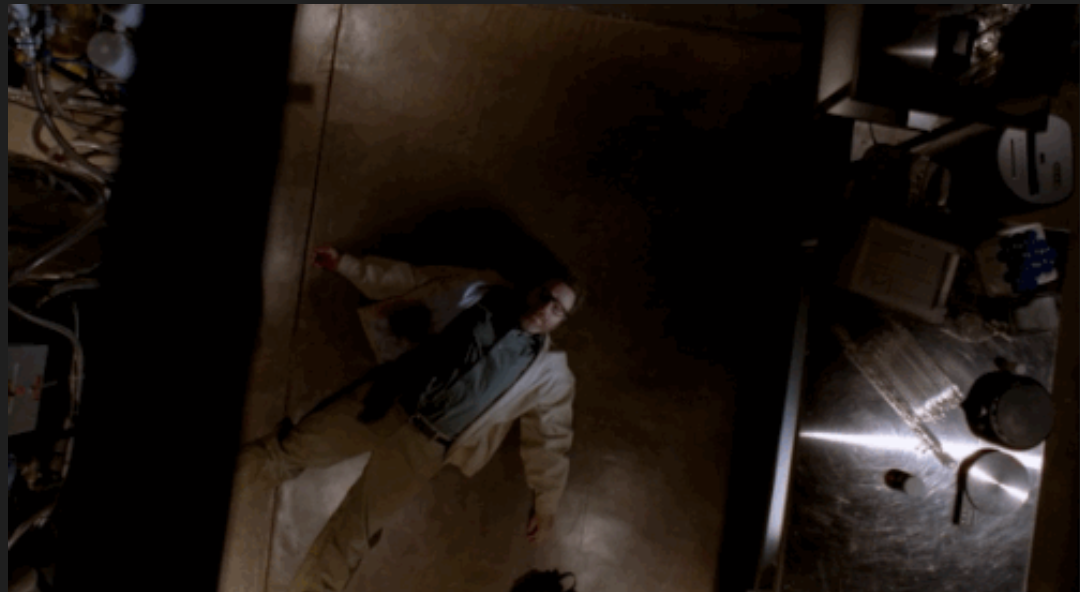
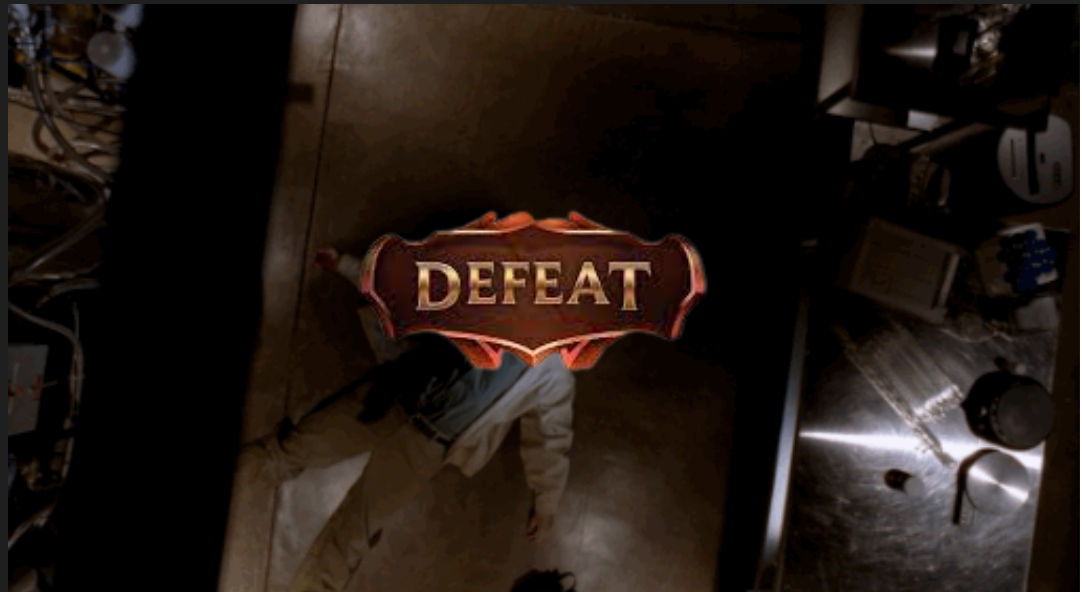
Add files via upload

Changed region(s): [[0.3355, 0.3345, 0.671, 0.6385]]

diff --git a/js/game.js b/js/game.js
@@ -7,30 +7,53 @@ var hody = [];
 //event listeners
 one.addEventListener("click", () => {
     ammo=0;
+    document.getElementById("one").disabled = true;
+    document.getElementById("two").disabled = false;
+    document.getElementById("three").disabled = false;
+    document.getElementById("four").disabled = false;
+    document.getElementById("five").disabled = false;
 
     document.getElementById('naboje').innerHTML = `Počet nábojů = ${ammo+1}`;
 });
 two.addEventListener("click", () => {
     ammo=1;
-    
+    document.getElementById("one").disabled = false;
+    document.getElementById("two").disabled = true;
+    document.getElementById("three").disabled = false;
+    document.getElementById("four").disabled = false;
+    document.getElementById("five").disabled = false;
+
     document.getElementById('naboje').innerHTML = `Počet nábojů = ${ammo+1}`;
 });
 three.addEventListener("click", () => {
     ammo=2;
-    
+    document.getElementById("one").disabled = false;
+    document.getElementById("two").disabled = false;
+    document.getElementById("three").disabled = true;
+    document.getElementById("four").disabled = false;
+    document.getElementById("five").disabled = false;
+
     document.getElementById('naboje').innerHTML = `Počet nábojů = ${ammo+1}`;
 });
 four.addEventListener("click", () => {
     ammo=3;
-    console.log(ammo);
+    document.getElementById("one").disabled = false;
+    document.getElementById("two").disabled = false;
+    document.getElementById("three").disabled = false;
+    document.getElementById("four").disabled = true;
+    document.getElementById("five").disabled = false;
     document.getElementById('naboje').innerHTML = `Počet nábojů = ${ammo+1}`;
 });
 five.addEventListener("click", () => {
     ammo=4;
-    console.log(ammo);
+    document.getElementById("one").disabled = false;
+    document.getElementById("two").disabled = false;
+    document.getElementById("three").disabled = false;
+    document.getElementById("four").disabled = false;
+    document.getElementById("five").disabled = true;
     document.getElementById('naboje').innerHTML = `Počet nábojů = ${ammo+1}`;
 });
-document.getElementById('game').addEventListener('click',
+document.getElementById('gameButton').addEventListener('click',
     function(){
         hod(ammo);
         console.log(hody);
@@ -46,15 +69,25 @@ function hod(ammo) {
     var opakovani= 0;
     gamenumber=Math.ceil(Math.random() * 6)
     game.push(gamenumber);
+    
+
+
     for (ammo; ammo>0; ammo--){
     do{
     gamenumber=Math.ceil(Math.random() * 6)
     }while(gamenumber == game[0]|gamenumber == game[1]|gamenumber == game[2]|gamenumber == game[3]|gamenumber == game[4])
     game.push(gamenumber) 
 }
+document.getElementById("gameButton").disabled = true;
+    document.getElementById("one").disabled = true;
+    document.getElementById("two").disabled = true;
+    document.getElementById("three").disabled = true;
+    document.getElementById("four").disabled = true;
+    document.getElementById("five").disabled = true;
 for (indexnumber;indexnumber<=naboje;indexnumber++){
     if(user == game[indexnumber]){
         zivoty--;
+        
     setTimeout(() => {
             gameImage.src = "img/1r6M.gif";
         }, 600);
@@ -63,9 +96,16 @@ for (indexnumber;indexnumber<=naboje;indexnumber++){
         }, 1800);
         setTimeout(() => {
             gameImage.src = "img/default.png";
-    
+            document.getElementById("gameButton").disabled = false;
+        document.getElementById("one").disabled = false;
+        document.getElementById("two").disabled = false;
+        document.getElementById("three").disabled = false;
+        document.getElementById("four").disabled = false;
+        document.getElementById("five").disabled = false;
         }, 1900);
         opakovani++;
+        
+    
     }
 }
 
@@ -76,6 +116,12 @@ if (opakovani == 0){
     setTimeout(() => {
         gameImage.src = "img/default.png";
     
+        document.getElementById("gameButton").disabled = false;
+        document.getElementById("one").disabled = false;
+        document.getElementById("two").disabled = false;
+        document.getElementById("three").disabled = false;
+        document.getElementById("four").disabled = false;
+        document.getElementById("five").disabled = false;
     }, 1800);
     opakovani--;
     coins+=naboje*naboje*10;
@@ -83,15 +129,29 @@ win-=naboje;
 }
 
 if(zivoty <= 0){
+    document.getElementById("gameButton").disabled = true;
+    document.getElementById("one").disabled = true;
+    document.getElementById("two").disabled = true;
+    document.getElementById("three").disabled = true;
+    document.getElementById("four").disabled = true;
+    document.getElementById("five").disabled = true;
     setTimeout(() => {
         gameImage.src = "img/death.gif";
-    
     }, 2000);
+    setTimeout(() => {
+        gameImage.src = "img/death.png";
+
+    }, 5800);
 }
 if (win<= 0){
     setTimeout(() => {
         gameImage.src = "img/win.gif";
-    
+        document.getElementById("gameButton").disabled = true;
+        document.getElementById("one").disabled = true;
+        document.getElementById("two").disabled = true;
+        document.getElementById("three").disabled = true;
+        document.getElementById("four").disabled = true;
+        document.getElementById("five").disabled = true; 
     }, 2100);
 }
 

diff --git a/index.html b/index.html
@@ -19,9 +19,8 @@
     <body>
         <div class="containter-fluid">
         <h1 class="text-center">Kostka</h1>
-        <div class="container ">
+        <div id="cele"class="container ">
             <div class="row">
-                  
                     <div class="col-sm-2 mt-5 shadow text-left">
                     <h3>Pocet nábojů</h3>
             <button  class="btn btn-outline-light rounded-0 mt-3 w-75"type="button" id="one">1</button>
@@ -29,17 +28,13 @@
             <button  class="btn btn-outline-light rounded-0 mt-3 w-75"type="button" id="three">3</button>
             <button  class="btn btn-outline-light rounded-0 mt-3 w-75"type="button" id="four">4</button>
             <button  class="btn btn-outline-light rounded-0 mt-3 w-75"type="button" id="five">5</button>
-                 
         </div>
                 <div class="col-sm-8 mt-5 text-center">
                     <div class="d-flex justify-content-center shadow">
             <img src="img/default.png" id="gameImage" alt="default" height="320" width="740" class="img-fluid">
-          </div>
+        </div>
             </div>
-           
-                
-        
-       <div class="col-sm-2 mt-5 shadow text-center">
+    <div class="col-sm-2 mt-5 shadow text-center">
         <h3>Status</h3>  
         <div id="naboje">Počet nábojů =1</div>
         <div id="zivoty">Počet životů =3</div>
@@ -49,7 +44,7 @@
     </div>
     
     <div class="text-center">
-        <button class="btn btn-outline-light rounded-0 mt-3 w-100 " style="font-weight:bold;"type="button" id="game">Hraj</button>
+        <button id="gameButton" class="btn btn-outline-light rounded-0 mt-3 w-100 " style="font-weight:bold;" type="button" >Hraj</button>
         </div>
     </div>
         <!-- jQuery -->
